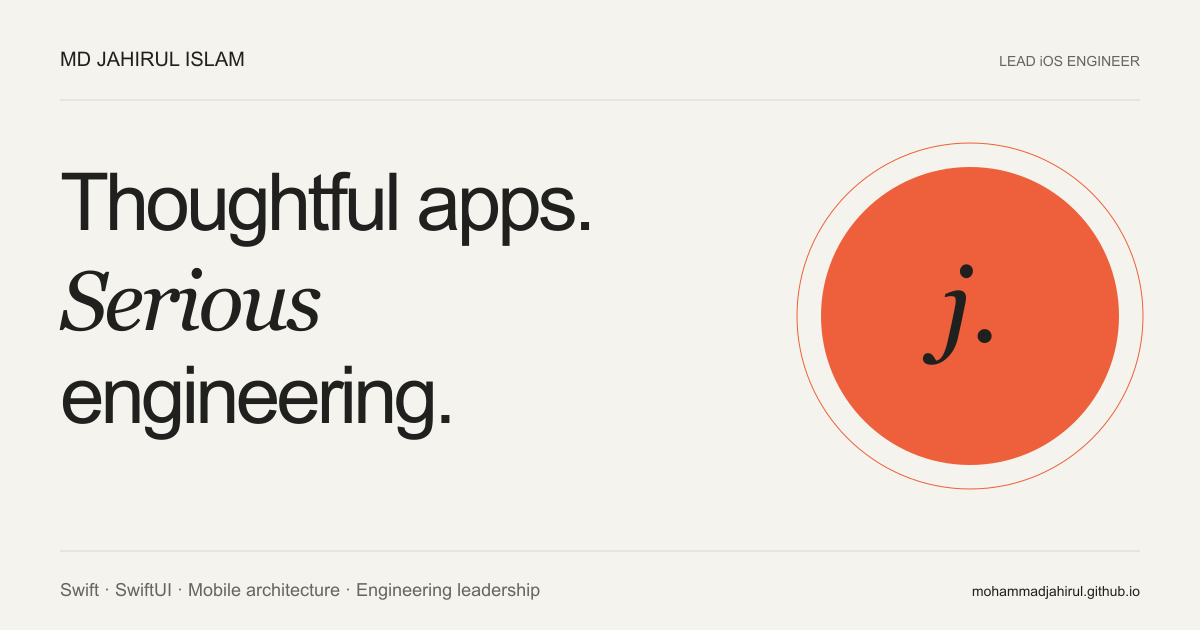
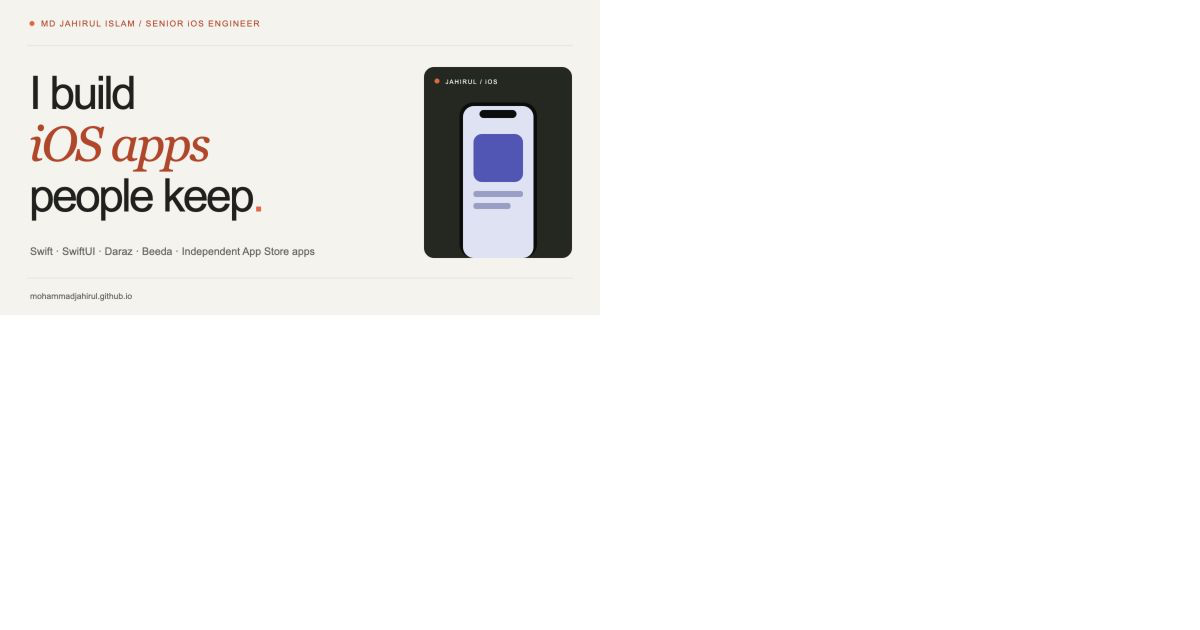
Make iOS expertise unmistakable in portfolio hero

diff --git a/index.html b/index.html
@@ -4,24 +4,24 @@
   <meta charset="utf-8">
   <meta name="viewport" content="width=device-width, initial-scale=1">
   <meta name="theme-color" content="#f5f3ed">
-  <meta name="description" content="Md Jahirul Islam — Lead iOS Engineer. Nine years building mobile products, leading teams, and turning complex systems into thoughtful experiences. Creator of Expense Packet and Talk Trial.">
-  <meta property="og:title" content="Md Jahirul Islam — Thoughtful apps. Serious engineering.">
-  <meta property="og:description" content="Lead iOS Engineer · Swift & SwiftUI · Mobile architecture · Creator of Expense Packet and Talk Trial.">
+  <meta name="description" content="Md Jahirul Islam is a senior iOS engineer and technical lead. Swift, SwiftUI, mobile architecture, Daraz, Beeda, and independently shipped App Store apps Expense Packet and Talk Trial.">
+  <meta property="og:title" content="Md Jahirul Islam — iOS Engineer & App Builder">
+  <meta property="og:description" content="Senior iOS engineering across Daraz and Beeda, plus two independently shipped SwiftUI apps.">
   <meta property="og:type" content="website">
   <meta property="og:url" content="https://mohammadjahirul.github.io/">
   <meta property="og:image" content="https://mohammadjahirul.github.io/assets/social-preview.png">
   <meta name="twitter:card" content="summary_large_image">
   <link rel="canonical" href="https://mohammadjahirul.github.io/">
   <link rel="icon" href="assets/favicon.svg" type="image/svg+xml">
-  <link rel="stylesheet" href="styles/style.css?v=20260928d">
-  <script src="scripts/script.js?v=20260928d" defer></script>
-  <title>Md Jahirul Islam — Lead iOS Engineer</title>
+  <link rel="stylesheet" href="styles/style.css?v=20260929a">
+  <script src="scripts/script.js?v=20260929a" defer></script>
+  <title>Md Jahirul Islam — Senior iOS Engineer & App Builder</title>
   <script type="application/ld+json">{"@context":"https://schema.org","@type":"Person","name":"Md Jahirul Islam","jobTitle":"Lead Software Engineer","url":"https://mohammadjahirul.github.io/","sameAs":["https://github.com/MohammadJahirul","https://www.linkedin.com/in/mohammadjahir"],"alumniOf":{"@type":"CollegeOrUniversity","name":"Daffodil International University"},"knowsAbout":["iOS Development","Swift","SwiftUI","Mobile Architecture","Engineering Leadership"]}</script>
 </head>
 <body>
   <a class="skip-link" href="#main">Skip to content</a>
   <header class="site-header">
-    <a class="wordmark" href="#home" aria-label="Md Jahirul Islam home"><span class="monogram">j<span>.</span></span><span>MD JAHIRUL<br>ISLAM</span></a>
+    <a class="wordmark" href="#home" aria-label="Md Jahirul Islam home"><span class="monogram">j<span>.</span></span><span>MD JAHIRUL<br><span class="wordmark-role">iOS ENGINEER</span></span></a>
     <button class="menu-toggle" aria-controls="navigation" aria-expanded="false">Menu <span aria-hidden="true">＋</span></button>
     <nav id="navigation" aria-label="Main navigation">
       <a href="#projects">Selected work <span>01</span></a>
@@ -32,14 +32,25 @@
   </header>
   <main id="main">
     <section class="hero wrap" id="home" aria-labelledby="hero-title">
-      <p class="eyebrow">MD JAHIRUL ISLAM · LEAD iOS ENGINEER</p>
-      <h1 id="hero-title">Built with care.<br><em>Ready for scale.</em></h1>
-      <div class="hero-intro"><p class="hero-description">9+ years building mobile products — across Daraz at Alibaba Group, Beeda, and independent apps. I bring hands-on engineering, clear architecture, and thoughtful team leadership.</p><div class="hero-actions"><a class="button button-dark" href="#projects">View selected work <span aria-hidden="true">↓</span></a><a class="text-link" href="resume/MD_Jahirul_Islam_Resume.pdf" download>Download resume ↗</a></div></div>
-      <div class="hero-bottom"><p>Previously at <strong>Daraz · Alibaba Group</strong></p><p>Swift · SwiftUI · Mobile architecture</p><p>Based in Dhaka · Open to global opportunities</p></div>
+      <div class="hero-layout">
+        <div class="hero-message">
+          <p class="eyebrow"><span class="status-dot" aria-hidden="true"></span> SENIOR iOS ENGINEER · TECHNICAL LEAD</p>
+          <h1 id="hero-title">I build<br><em>iOS apps</em><br>people keep<span class="orange">.</span></h1>
+          <p class="hero-description">I’m Jahirul. I’ve spent 9+ years turning complex mobile products into clear, dependable experiences — from Daraz and Beeda to two iPhone apps I built and shipped myself.</p>
+          <div class="hero-actions"><a class="button button-dark" href="#projects">Explore iOS work <span aria-hidden="true">↘</span></a><a class="text-link" href="resume/MD_Jahirul_Islam_Resume.pdf" download>Download resume ↗</a></div>
+          <div class="hero-specialties" aria-label="iOS specialties"><span>SWIFT</span><span>SWIFTUI</span><span>MOBILE ARCHITECTURE</span><span>TEAM LEADERSHIP</span></div>
+        </div>
+        <div class="ios-showcase" aria-label="Preview of Jahirul’s published iPhone app Expense Packet">
+          <div class="showcase-top"><span class="showcase-light" aria-hidden="true"></span><span>JAHIRUL / iOS</span><span>01 — 04</span></div>
+          <div class="showcase-body"><div class="showcase-note"><span>SWIFTUI · SWIFTDATA · VISION</span><strong>From code<br>to someone's<br>home screen.</strong></div><div class="showcase-phone"><div class="phone-island" aria-hidden="true"></div><img src="assets/expense-claims.webp" alt="Expense Packet iPhone app showing organized reimbursement claims" width="314" height="680"></div></div>
+          <div class="showcase-bottom"><div><img src="assets/expense-icon.webp" alt="" width="32" height="32"><span>EXPENSE PACKET<br><small>INDEPENDENT iOS APP</small></span></div><a href="#expense-packet" aria-label="Explore Expense Packet">EXPLORE APP ↗</a></div>
+        </div>
+      </div>
+      <div class="hero-bottom"><p><strong>Daraz · Alibaba Group</strong><span>High-scale commerce</span></p><p><strong>Beeda</strong><span>Multi-service mobile platform</span></p><p><strong>Expense Packet + Talk Trial</strong><span>Independent App Store products</span></p></div>
     </section>
 
     <section class="section wrap" id="projects" aria-labelledby="work-title">
-      <div class="section-heading"><p class="eyebrow">01 / SELECTED WORK</p><div><h2 id="work-title">Experience that <em>ships.</em></h2><p>Established platforms. Independent products. A focus on the experience.</p></div></div>
+      <div class="section-heading"><p class="eyebrow">01 / iOS WORK IN THE WILD</p><div><h2 id="work-title">Built for real life<span class="orange">.</span></h2><p>Commerce at scale, multi-service platforms, and apps I shipped from the first line of Swift.</p></div></div>
       <article class="daraz-feature" id="daraz">
         <div class="daraz-brand"><span class="eyebrow">FEATURED EXPERIENCE</span><div><span class="daraz-wordmark">Daraz<span>↗</span></span><p>Alibaba Group</p></div><span class="daraz-footnote">iOS · E-COMMERCE</span></div>
         <div class="daraz-content"><p class="project-category">SENIOR SOFTWARE ENGINEER, iOS · MAR 2022 – APR 2023</p><h3>Engineering for<br>everyday commerce.</h3><p>Contributed to the Daraz shopping app as part of its iOS engineering team, developing and optimizing features for a complex commerce product.</p><ul><li>Shopping feature development and optimization</li><li>Data-informed product decisions</li><li>System design improvements for simpler feature delivery</li></ul><div class="project-links"><button class="text-link" data-dialog="daraz-detail">My contribution ↗</button><a href="https://apps.apple.com/us/app/daraz-online-shopping-app/id978058048" target="_blank" rel="noopener noreferrer">View on App Store ↗</a></div></div>
@@ -69,7 +80,7 @@
     </section>
 
     <section class="about-section" id="about" aria-labelledby="about-title"><div class="wrap section">
-      <div class="about-grid"><div><p class="eyebrow">02 / THE ENGINEER BEHIND THE WORK</p><h2 id="about-title">Hands-on engineer.<br><em>Thoughtful leader.</em></h2></div><div class="about-copy"><p class="large-copy">I care about what happens between “it works” and “it feels right.”</p><p>My career started in game development in 2017. That foundation still shapes how I build: responsive interactions, careful performance decisions, and a respect for the person on the other side of the screen.</p><p>Since then, I’ve worked across commerce, ride-sharing, food delivery, and real-time communication. Today, I lead mobile engineers at Nasir Syntax Solution and build independent iOS products of my own.</p><p>I enjoy moving between the details and the bigger picture: writing Swift, finding the right architecture, and helping a team grow.</p><div class="education"><span>EDUCATION</span><strong>BSc in Software Engineering</strong><p>Daffodil International University · 2017</p></div></div></div>
+      <div class="about-grid"><div><p class="eyebrow">02 / THE ENGINEER BEHIND THE WORK</p><h2 id="about-title">Hands-on engineer.<br><em>Thoughtful leader.</em></h2></div><div class="about-copy"><p class="large-copy">I’ve built iOS features with large teams and shipped my own apps from first commit to App Store release.</p><p>My career began in game development in 2017. It taught me to care about responsiveness and performance, not just whether a feature works.</p><p>At Daraz, I worked on a commerce app used across a complex product organization. At Beeda, I helped shape modular mobile systems and supported other engineers. Expense Packet and Talk Trial let me own the full product: architecture, native interactions, testing, and release.</p><p>Today I lead mobile engineers at Nasir Syntax Solution while staying close to the Swift code and the people using what we build.</p><div class="education"><span>EDUCATION</span><strong>BSc in Software Engineering</strong><p>Daffodil International University · 2017</p></div></div></div>
     </div></section>
 
     <section class="section wrap" id="experience" aria-labelledby="experience-title"><div class="section-heading"><p class="eyebrow">03 / THE JOURNEY</p><div><h2 id="experience-title">Built over <em>time.</em></h2><p>From game engines to leading mobile teams.<br>A career spent making things work better.</p></div><a class="text-link" href="resume/MD_Jahirul_Islam_Resume.pdf" download>Full resume <span aria-hidden="true">↓</span></a></div>

diff --git a/styles/style.css b/styles/style.css
@@ -25,3 +25,12 @@ dialog{border:0;background:var(--paper);color:var(--ink);width:min(1000px,calc(1
 @media(max-width:650px){.wrap{width:calc(100% - 40px)}.site-header{padding:20px}.js-ready .hero{padding-top:48px}.hero h1{font-size:clamp(48px,11.7vw,74px);letter-spacing:-2.8px;margin-top:22px}.hero-intro{margin:24px 0 32px}.hero-description{font-size:15px}.hero-actions{gap:20px}.hero-bottom{font-size:11px}.section{padding:58px 0}.section-heading h2{font-size:37px;letter-spacing:-1.6px}.daraz-feature{grid-template-columns:1fr;margin-bottom:42px}.daraz-brand{min-height:250px;padding:26px}.daraz-wordmark{font-size:76px;letter-spacing:-4px}.daraz-content{padding:26px}.daraz-content h3{font-size:31px}.daraz-content .project-links{flex-direction:row;align-items:center;flex-wrap:wrap;gap:15px}.independent-heading{display:block}.independent-heading p{margin-top:10px}.project-stage{height:360px}.screens{inset:25px 22px 60px;gap:16px}.project-grid{gap:42px}.more-work{grid-template-columns:1fr;margin-top:44px}.more-work-title p{font-size:22px}.about-grid h2{font-size:38px}.about-copy{padding-top:28px}.career-date{width:100%}.career-body{margin-left:0}.contact-section h2{font-size:clamp(45px,11.6vw,70px);padding-bottom:76px}.contact-arrow{width:58px;height:58px;font-size:36px}.contact-section{padding:38px 0}}
 
 .beeda-brand{background:#242720;color:var(--paper)}.beeda-brand .daraz-wordmark{color:#dfb69a}.earlier-work{margin-top:52px;padding-top:26px;border-top:1px solid var(--line);display:flex;align-items:center;gap:50px}.earlier-work>a{display:flex;align-items:center;gap:28px;flex:1}.earlier-work strong{font-size:20px;font-weight:500}.earlier-work a>span{font-size:12px;color:var(--muted)}.earlier-work a>span:last-child{margin-left:auto;font-size:23px}.earlier-work a:hover{color:var(--accent)}@media(max-width:650px){.earlier-work{display:block}.earlier-work>a{margin-top:16px;flex-wrap:wrap;gap:8px 15px}.earlier-work a>span:nth-child(2){order:3;width:100%}}
+
+/* A clear iOS identity and a real app preview anchor the first screen. */
+.wordmark .wordmark-role{color:var(--accent);font-size:9px;letter-spacing:1.8px}.hero{padding-top:58px}.hero-layout{display:grid;grid-template-columns:1fr .91fr;gap:48px;align-items:center}.hero-message{min-width:0}.hero-message>.eyebrow{color:var(--accent)}.hero-message h1{font-size:clamp(64px,6.5vw,94px);line-height:1.02;letter-spacing:-5px;margin:28px 0}.hero-message h1 em{color:var(--accent)}.hero-message .hero-description{font-size:16px;max-width:490px;line-height:1.75}.hero-message .hero-actions{justify-content:flex-start;flex-wrap:wrap;gap:24px;margin-top:30px}.hero-specialties{display:flex;flex-wrap:wrap;gap:10px 19px;margin-top:54px;padding-top:18px;border-top:1px solid var(--line)}.hero-specialties span{font-size:9px;letter-spacing:1px;color:var(--muted);font-weight:700}.ios-showcase{height:610px;min-width:0;overflow:hidden;background:#242720;color:#f5f3ed;border-radius:12px;position:relative;display:flex;flex-direction:column;justify-content:space-between;isolation:isolate}.ios-showcase::before{content:"";position:absolute;width:410px;height:410px;border:1px solid #ffffff25;border-radius:50%;top:112px;right:-145px;box-shadow:0 0 0 72px #ffffff07,0 0 0 144px #ffffff06;z-index:-1}.showcase-top,.showcase-bottom{display:flex;align-items:center;justify-content:space-between;padding:25px 28px;gap:15px}.showcase-top{border-bottom:1px solid #ffffff25;font-size:9px;letter-spacing:1.2px}.showcase-light{width:8px;height:8px;border-radius:50%;background:var(--orange);box-shadow:0 0 0 5px #ed603b30;margin-right:5px}.showcase-top span:nth-child(2){margin-right:auto}.showcase-body{height:450px;display:flex;align-items:center;justify-content:space-between;gap:14px;padding:20px 10px 0 28px}.showcase-note{align-self:flex-end;margin-bottom:65px;position:relative;z-index:1}.showcase-note span{font-size:8px;letter-spacing:1px;color:#ec9a7d;white-space:nowrap}.showcase-note strong{display:block;font-family:var(--serif);font-size:clamp(23px,2.4vw,36px);font-weight:400;font-style:italic;line-height:1.18;letter-spacing:-1px;margin-top:15px}.showcase-phone{width:217px;min-width:185px;max-width:46%;height:420px;overflow:hidden;border:7px solid #090b0b;border-bottom:0;border-radius:35px 35px 0 0;background:white;box-shadow:-25px 14px 35px #0003;position:relative;align-self:flex-end}.showcase-phone img{width:100%;height:auto;display:block}.phone-island{position:absolute;top:9px;left:50%;transform:translateX(-50%);height:15px;width:66px;background:#090b0b;border-radius:14px;z-index:1}.showcase-bottom{border-top:1px solid #ffffff25;min-height:76px}.showcase-bottom>div{display:flex;align-items:center;gap:10px;font-size:10px;letter-spacing:1px;font-weight:700;line-height:1.4}.showcase-bottom img{border-radius:8px}.showcase-bottom small{font-size:8px;letter-spacing:.8px;color:#b7bcac;font-weight:400}.showcase-bottom>a{font-size:9px;letter-spacing:1px;border-bottom:1px solid #ffffff80;padding-bottom:4px;white-space:nowrap}.showcase-bottom>a:hover{color:#ed603b;border-color:#ed603b}.hero-bottom{margin-top:42px;padding:22px 0 28px;gap:20px}.hero-bottom p{display:flex;flex-direction:column;gap:3px;flex:1}.hero-bottom strong{font-size:13px}.hero-bottom p span{font-size:10px;color:var(--muted)}
+@media(max-width:1000px){.hero-layout{gap:28px}.hero-message h1{font-size:clamp(57px,6.5vw,72px)}.hero-message .hero-actions{gap:16px}.ios-showcase{height:540px}.showcase-body{height:390px}.showcase-phone{min-width:160px;height:365px}.showcase-note strong{font-size:25px}.showcase-note span{font-size:7px}}
+@media(max-width:750px){.hero-layout{grid-template-columns:1fr}.hero-message h1{font-size:clamp(60px,10vw,82px)}.hero-specialties{margin-top:32px}.ios-showcase{height:515px;max-width:550px;width:100%;margin-top:8px}.showcase-phone{width:220px;max-width:48%;height:365px}.hero-bottom{margin-top:27px}.hero-bottom>p:nth-child(2){display:flex}}
+@media(max-width:650px){.hero{padding-top:35px}.js-ready .hero{padding-top:35px}.hero-message h1{font-size:clamp(59px,12vw,76px);letter-spacing:-3.6px;margin:24px 0}.hero-message .hero-description{font-size:15px}.hero-message .hero-actions{margin-top:23px}.hero-specialties{margin-top:32px;gap:9px 14px}.hero-specialties span{font-size:8px}.ios-showcase{height:430px}.showcase-top,.showcase-bottom{padding:17px 18px}.showcase-body{height:326px;padding:14px 5px 0 19px}.showcase-phone{width:160px;min-width:144px;max-width:48%;height:302px;border-width:6px;border-radius:28px 28px 0 0}.showcase-note{margin-bottom:42px}.showcase-note strong{font-size:clamp(22px,6vw,29px)}.showcase-note span{font-size:6px;letter-spacing:.5px}.showcase-bottom{min-height:66px}.showcase-bottom>a{font-size:8px}.hero-bottom{display:grid;grid-template-columns:1fr 1fr;gap:14px 10px}.hero-bottom>p:last-child{grid-column:1/-1;display:flex}.hero-bottom strong{font-size:11px}.hero-bottom p span{font-size:9px}}
+@media(max-width:360px){.showcase-note strong{font-size:20px}.showcase-phone{min-width:132px}.showcase-bottom>a{font-size:7px}}
+@media(max-width:360px){.hero-message h1{font-size:52px}}
+@media(min-width:651px) and (max-width:850px){.hero-layout{grid-template-columns:1fr}.hero-message h1{font-size:76px}.hero-message .hero-description{max-width:600px}.ios-showcase{width:min(100%,560px);height:525px}.hero-specialties{margin-top:30px}}

diff --git a/README.md b/README.md
@@ -1,6 +1,6 @@
 # Md Jahirul Islam — iOS Engineering Portfolio
 
-A responsive, dependency-free portfolio for Senior and Lead iOS opportunities. Includes Expense Packet and Talk Trial product showcases, engineering case studies, career history, and downloadable two-page resumes.
+A responsive, dependency-free portfolio for Senior and Lead iOS opportunities. The opening screen identifies Jahirul as an iOS engineer and shows a published iPhone app; Daraz and Beeda have featured sections, followed by Expense Packet and Talk Trial case studies, career history, and downloadable two-page resumes.
 
 ## Preview
 
@@ -10,7 +10,7 @@ Run `python3 -m http.server 8765 --bind 127.0.0.1` from this directory, then ope
 
 - `index.html`: accessible, semantic content and native case-study dialogs.
 - `styles/style.css`: responsive editorial layout, reduced-motion support, and print styles.
-- `scripts/script.js`: mobile navigation, dialogs, local clock, and email copying.
+- `scripts/script.js`: mobile navigation, dialogs, and email copying.
 - `assets/`: locally hosted App Store artwork, favicon, and social preview.
 - `resume/`: PDF, editable DOCX, and plain text versions of the resume.
 - `robots.txt` and `sitemap.xml`: search discovery.
